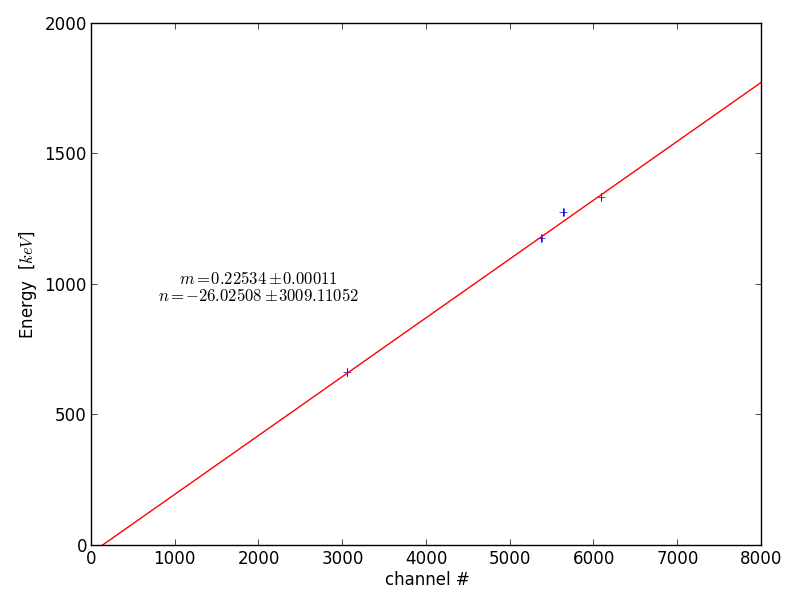
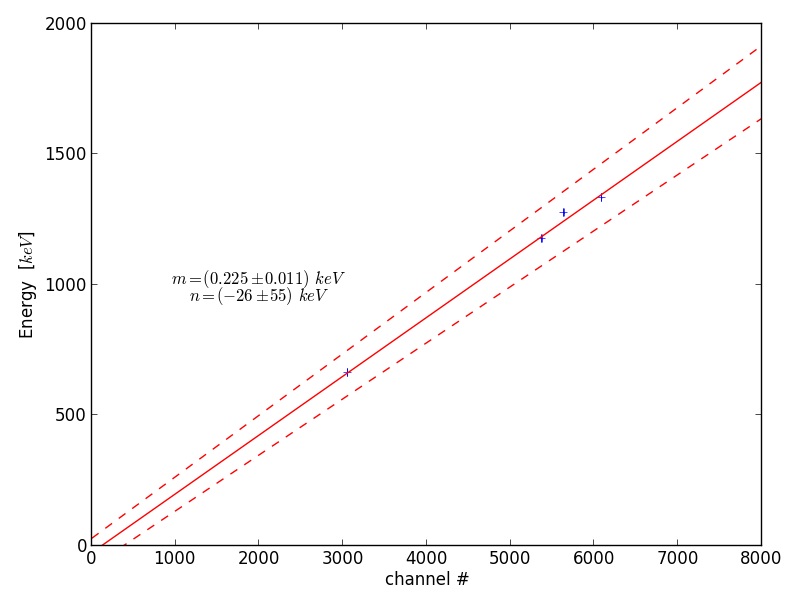
Cal etc

Changed region(s): [[0.1875, 0.45, 0.4688, 0.51]]

diff --git a/gama/data/cal_eval.py b/gama/data/cal_eval.py
@@ -29,7 +29,6 @@ with open('peaks.csv', 'rb') as f:
         except:
             print row
 
-x[2] = x[2]/2
 x = np.asarray(x)
 y = np.asarray(y)
 x_err = np.asarray(x_err)
@@ -39,15 +38,16 @@ sigma = 250
 
 popt,pcov = curve_fit(lin,x,y,p0=[1.0,0])
 
-# d_x0 = pcov[1,1]
-# a = popt[0]
-# x0 = popt[1]
-# sigma = popt[2]
+print pcov
 
 x_ = range(0,8000)
 x_ = np.asarray(x_)
-text = '$m = ' + str(round(popt[0], 5)) + '\pm' +  str(round(pcov[0,0], 5)) + '$'
-text2 = '$n = ' + str(round(popt[1], 5)) + '\pm' +  str(round(pcov[1,1], 5)) + '$'
+
+d_m = np.sqrt(pcov[0,0])
+d_n = np.sqrt(pcov[1,1])
+
+text = '$m = (' + str(round(popt[0], 3)) + '\pm' +  str(round(np.sqrt(pcov[0,0]), 3)) + ')\, keV$'
+text2 = '$n = (' + str(int(round(popt[1], 0))) + '\pm' +  str(int(round(np.sqrt(pcov[1,1]), 0))) + ')\, keV$'
 plt.text(2000, 1000, text, horizontalalignment='center')#, verticalalignment='bottom' , rotation='vertical')
 plt.text(2000, 935, text2, horizontalalignment='center')#, verticalalignment='bottom' , rotation='vertical')
 
@@ -56,6 +56,9 @@ print popt
 plt.errorbar(x, y, xerr=x_err, fmt='+')
 
 plt.plot(x_,lin(x_, popt[0], popt[1]),'r',label='fit')
+plt.plot(x_,lin(x_, popt[0] + d_m, popt[1] + d_n),'r--')
+plt.plot(x_,lin(x_, popt[0] - d_m, popt[1] - d_n),'r--')
+
 plt.xlabel('channel #')
 plt.ylabel('Energy  [$keV$]')
 plt.ylim([0,2000])
